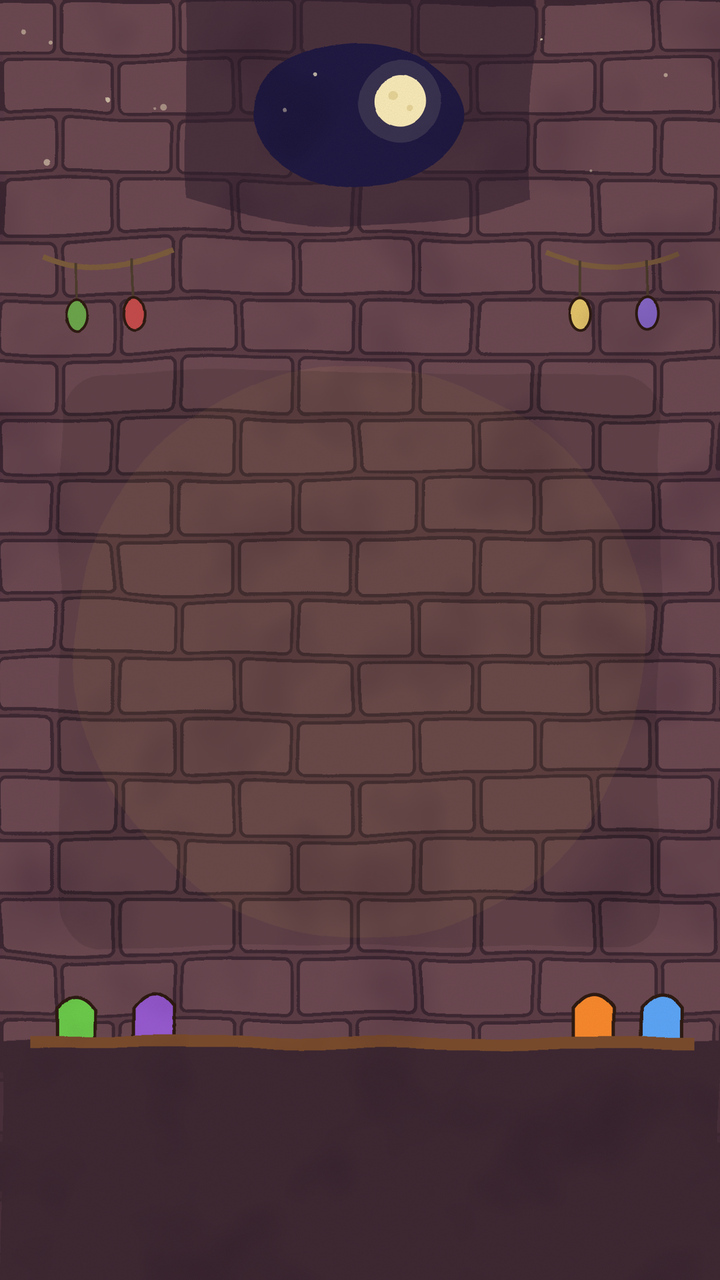
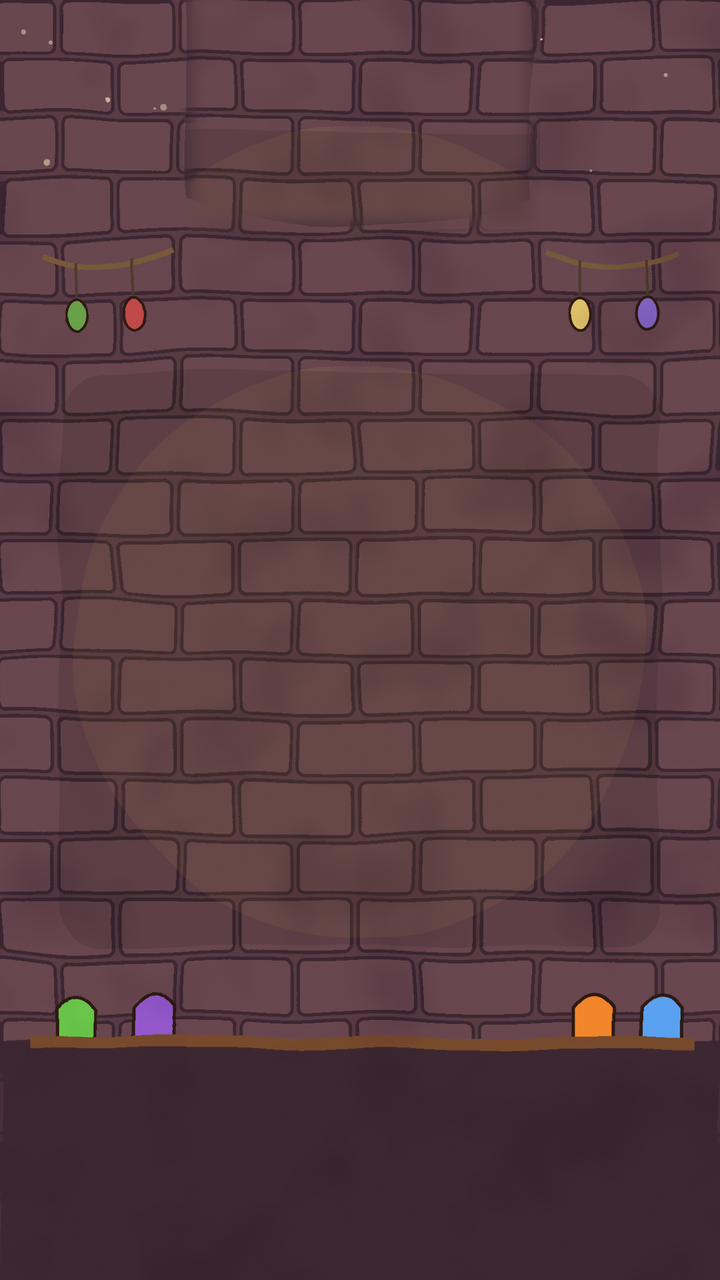
Staging: Halloween batch B/C QA fixes

Changed region(s): [[0.275, 0.0, 0.7333, 0.1875]]

diff --git a/staging/cauldron-stir/game.js b/staging/cauldron-stir/game.js
@@ -3,7 +3,7 @@
 var CS_X = 180, CS_Y = 350, CS_BEAT = 60 / 96;
 function csPack() { var A = window.AudioKit; return A && A.games && A.games['cauldron-stir']; }
 // seconds from the nearest beat (negative = early) and that beat's index; audio clock when music runs, else the game clock
-function csClock(g) { var P = csPack(); try { if (P && P.beatOffset) { var k = P.currentBeat(), off = P.beatOffset(); if (k && off != null && isFinite(off)) return { off: off, beat: Math.round((k.now - k.t0) / k.beatDur), phase: k.phase }; } } catch (e) {}
+function csClock(g) { var P = csPack(); try { if (P && P.beatOffset && g.state === 'play' && g.music && g.music.playing) { /* never touch the audio clock before a gesture starts the music */ var k = P.currentBeat(), off = P.beatOffset(); if (k && off != null && isFinite(off)) return { off: off, beat: Math.round((k.now - k.t0) / k.beatDur), phase: k.phase }; } } catch (e) {}
   var r = g.t / CS_BEAT, nb = Math.round(r); return { off: (r - nb) * CS_BEAT, beat: nb, phase: r - Math.floor(r) }; }
 function csStir(g) { var D = g.data, k = csClock(g), a = Math.abs(k.off), tol = Math.max(0.07, 0.13 - g.level * 0.006);
   if (k.beat === D.lastBeat) { a = 1; } // a second stir on the same beat is a miss
@@ -15,7 +15,7 @@ function csStir(g) { var D = g.data, k = csClock(g), a = Math.abs(k.off), tol = 
   if (D.good >= 8) { D.good = 0; D.drops.push({ k: Math.floor(hwRand() * 5), y: 120, t: 0 }); }
   if (D.meter <= 0) { D.meter = 0; g.gameOver('the brew went cold'); } }
 EagleGame.run({ id: 'cauldron-stir', title: HW_NAMES['cauldron-stir'], howto: 'Drag your finger round the cauldron in circles, in time with the beat: every half turn is one stir (a tap counts too). Stir right on the beat when the ring flashes to keep the brew bubbling. Off-beat stirs and skipped beats cool the brew; if the meter empties, the brew is ruined. Every 8 good stirs adds a new ingredient. Keys: Space / Enter to stir on the beat.',
-  art: ['cauldron_topdown_sheet', 'beat_ring_sheet', 'spoon_stir_sheet', 'ingredients_sheet', 'splash_sheet'], levelEvery: 40, likeScore: 60,
+  art: ['cauldron_topdown_sheet', 'beat_ring_sheet', 'spoon_stir_sheet', 'ingredients_sheet', 'splash_sheet'], levelEvery: 40, likeScore: 60, fill: { top: '#543841', bottom: { tile: 'band_bottom', size: 180, originY: 640, color: '#3b2630' } },
   achievements: [{ id: 'c30', score: 30, name: 'Apprentice Brewer' }, { id: 'c150', score: 150, name: 'Master of the Brew' }],
   audioReady: function (g) { var P = csPack(); if (P && P.bindPlayer && g.music) P.bindPlayer(g.music); },
   init: function (g) { hwSeed(); g.data = { meter: 0.6, combo: 0, good: 0, lastBeat: -99, spoon: 0, ang: null, acc: 0, q: '', qt: 0, ring: 0, wob: 0, drops: [], splash: [], idleBeats: 0, seenBeat: -1 }; },
@@ -27,7 +27,7 @@ EagleGame.run({ id: 'cauldron-stir', title: HW_NAMES['cauldron-stir'], howto: 'D
     if (D.qt > 0) D.qt -= dt; if (D.ring > 0) D.ring -= dt; if (D.wob > 0) D.wob -= dt;
     D.drops.forEach(function (d) { d.t += dt; d.y += dt * 420; if (d.y >= CS_Y && !d.done) { d.done = 1; D.splash.push({ t: 0 }); g.sfx('brewDone', null, 'powerUp'); g.sfx('splash'); g.addScore(5); } });
     D.drops = D.drops.filter(function (d) { return !d.done; }); D.splash.forEach(function (s) { s.t += dt; }); D.splash = D.splash.filter(function (s) { return s.t < 0.5; });
-    if (hwRand() < dt * 1.5) g.sfx('bubble', hwRand()); },
+    if (g.music && g.music.playing && (!navigator.userActivation || navigator.userActivation.hasBeenActive) && Math.random() < dt * 1.5) g.sfx('bubble', Math.random()); },
   draw: function (g, c) { var D = g.data, th = g.theme, k = csClock(g); if (!g.bg()) hwSky(c, '#150f2c', '#2b1a40');
     var near = Math.abs(k.off) < 0.09, pulse = Math.max(0, 1 - Math.abs(k.off) / 0.25);
     if (!hwFrame(g, 'beat_ring_sheet', near ? 5 : Math.min(4, pulse * 5), 6, 1, CS_X, CS_Y, 270 + pulse * 20, 270 + pulse * 20)) { c.strokeStyle = near ? '#fff3b0' : 'rgba(255,255,255,.3)'; c.lineWidth = 4 + pulse * 6; c.beginPath(); c.arc(CS_X, CS_Y, 128 + pulse * 10, 0, 7); c.stroke(); }
@@ -37,13 +37,13 @@ EagleGame.run({ id: 'cauldron-stir', title: HW_NAMES['cauldron-stir'], howto: 'D
     if (!hwFrame(g, 'spoon_stir_sheet', D.spoon % 8, 8, 1, sx, sy, 90, 90)) { c.strokeStyle = '#c89a5a'; c.lineWidth = 8; c.beginPath(); c.moveTo(sx, sy); c.lineTo(sx + 20, sy - 50); c.stroke(); }
     D.drops.forEach(function (d) { if (!hwFrame(g, 'ingredients_sheet', d.k, 5, 1, CS_X, d.y, 50, 50)) { c.fillStyle = '#ff5fa2'; c.beginPath(); c.arc(CS_X, d.y, 14, 0, 7); c.fill(); } });
     D.splash.forEach(function (s) { hwFrame(g, 'splash_sheet', s.t / 0.5 * 4.99, 5, 1, CS_X, CS_Y - 20, 140, 140); });
-    c.fillStyle = 'rgba(255,255,255,.15)'; c.fillRect(40, 140, 280, 10); c.fillStyle = D.meter < 0.25 ? th.bad : '#7cf0a0'; c.fillRect(40, 140, 280 * D.meter, 10);
-    c.textAlign = 'center'; c.fillStyle = th.dim; c.font = '12px system-ui'; c.fillText('brew heat', 180, 166);
-    if (D.qt > 0) { c.globalAlpha = Math.min(1, D.qt * 2); c.fillStyle = D.q === 'Off beat' ? th.bad : th.accent; c.font = 'bold 24px system-ui'; c.fillText(D.q, 180, 200); c.globalAlpha = 1; }
-    c.fillStyle = th.dim; c.font = '13px system-ui'; c.fillText('stir in circles on the beat' + (D.combo > 1 ? ' · combo ' + D.combo : '') + ' · level ' + g.level, 180, g.safeY(560)); }
+    var HB = 184; c.fillStyle = 'rgba(0,0,0,.35)'; c.fillRect(56, HB - 2, 248, 12); c.fillStyle = 'rgba(255,255,255,.18)'; c.fillRect(58, HB, 244, 8); c.fillStyle = D.meter < 0.25 ? th.bad : '#7cf0a0'; c.fillRect(58, HB, 244 * D.meter, 8);
+    c.textAlign = 'center'; c.fillStyle = th.dim; c.font = '12px system-ui'; c.fillText('brew heat', 180, HB + 24);
+    if (D.qt > 0) { c.globalAlpha = Math.min(1, D.qt * 2); c.fillStyle = D.q === 'Off beat' ? th.bad : th.accent; c.font = 'bold 24px system-ui'; c.fillText(D.q, 180, 230); c.globalAlpha = 1; }
+    c.fillStyle = th.dim; c.font = '13px system-ui'; c.fillText('stir in circles on the beat' + (D.combo > 1 ? ' · combo ' + D.combo : '') + ' · level ' + g.level, 180, g.safeY(CS_Y + 138)); }
 });
 // drag tracking: every half turn round the cauldron while the finger is down counts as one stir
 document.addEventListener('pointermove', function (e) { var g = window.__eagle; if (!g || !hwLive() || !g.held || g.data.ang == null) return; var v = g.view.css; if (!v.w) return;
   var x = (e.clientX - v.x) / v.w * 360, y = (e.clientY - v.y) / v.h * 640, D = g.data, a = Math.atan2(y - CS_Y, x - CS_X), d = a - D.ang;
   if (Math.hypot(x - CS_X, y - CS_Y) < 20) return; if (d > Math.PI) d -= 2 * Math.PI; if (d < -Math.PI) d += 2 * Math.PI; D.ang = a; D.acc += Math.abs(d);
-  if (Math.abs(D.acc) > 0.3) D.tapped = false; if (D.acc >= Math.PI) { D.acc -= Math.PI; csStir(g); } });
+  if (Math.abs(D.acc) > 0.3) D.tapped = false; if (D.acc >= Math.PI * 0.85) { D.acc -= Math.PI * 0.85; csStir(g); } });

diff --git a/staging/moonlit-mazelings/game.js b/staging/moonlit-mazelings/game.js
@@ -13,15 +13,15 @@ function mzBuild(g) { var D = g.data, n = D.maze, C = Math.min(8, 5 + Math.floor
   D.gate = { x: far[0], y: far[1] }; D.lead = { x: 0, y: R - 1, fx: 0, fy: R - 1, d: -1, q: -1, prog: 0 }; D.trail = []; for (k = 0; k < 40; k++) D.trail.push([0, R - 1]);
   D.pets = Math.min(6, 2 + Math.floor(n / 2)); D.coins = []; var nc = 3 + Math.min(5, n);
   for (k = 0; k < 60 && D.coins.length < nc; k++) { x = Math.floor(hwRand() * C); y = Math.floor(hwRand() * R); if ((x || y !== R - 1) && !(x === far[0] && y === far[1]) && !D.coins.some(function (c) { return c.x === x && c.y === y; })) D.coins.push({ x: x, y: y }); }
-  D.lan = []; var nl = Math.min(4, 1 + Math.floor(n / 2)); for (k = 0; k < 80 && D.lan.length < nl; k++) { x = Math.floor(hwRand() * C); y = Math.floor(hwRand() * R); if (dist[x][y] >= 5) D.lan.push({ x: x, y: y, fx: x, fy: y, d: -1, prog: 1 }); }
-  D.safe = 1.2; D.done = 0; }
+  D.lan = []; var nl = Math.min(4, Math.floor((n + 1) / 2)); for (k = 0; k < 80 && D.lan.length < nl; k++) { x = Math.floor(hwRand() * C); y = Math.floor(hwRand() * R); if (dist[x][y] >= 5) D.lan.push({ x: x, y: y, fx: x, fy: y, d: -1, prog: 1 }); }
+  D.safe = 2; D.done = 0; }
 function mzDist(D, sx, sy) { var dist = [], x, y; for (x = 0; x < D.C; x++) { dist[x] = []; for (y = 0; y < D.R; y++) dist[x][y] = 1e9; } dist[sx][sy] = 0; var q = [[sx, sy]];
   while (q.length) { var p = q.shift(); for (var d = 0; d < 4; d++) { if (D.W[p[0]][p[1]] & MZ_DIRS[d][2]) continue; var nx = p[0] + MZ_DIRS[d][0], ny = p[1] + MZ_DIRS[d][1]; if (dist[nx][ny] > dist[p[0]][p[1]] + 1) { dist[nx][ny] = dist[p[0]][p[1]] + 1; q.push([nx, ny]); } } } return dist; }
 function mzOpen(D, x, y, d) { return d >= 0 && !(D.W[x][y] & MZ_DIRS[d][2]); }
 function mzSteer(g, d) { var D = g.data; if (!D.lead || D.done) return; D.lead.q = d; if (D.lead.d < 0 || D.lead.d === MZ_OPP[d]) { if (D.lead.d === MZ_OPP[d] && D.lead.prog < 1) { var L = D.lead; L.x = L.fx; L.y = L.fy; L.prog = 1 - L.prog; } } }
 function mzCell(D, x, y) { return [D.ox + (x + 0.5) * D.S, D.oy + (y + 0.5) * D.S]; }
 EagleGame.run({ id: 'moonlit-mazelings', title: HW_NAMES['moonlit-mazelings'], howto: 'Swipe up, down, left or right to lead your line of ghost pets through the maze; the leader keeps gliding until a wall or your next swipe. Reach the moon gate to clear the maze, grab moon coins for points and keep away from the wandering lanterns. A lantern touching your leader costs a life; 3 lives. Keys: arrow keys.',
-  art: ['maze_floor_128', 'maze_wall_128', 'mazeling_walk_down_sheet', 'mazeling_walk_left_sheet', 'mazeling_walk_right_sheet', 'mazeling_walk_up_sheet', 'moon_coin_sheet', 'moon_gate_sheet', 'lantern'], levelEvery: 40, likeScore: 50,
+  art: ['maze_floor_128', 'maze_wall_128', 'mazeling_walk_down_sheet', 'mazeling_walk_left_sheet', 'mazeling_walk_right_sheet', 'mazeling_walk_up_sheet', 'moon_coin_sheet', 'moon_gate_sheet', 'lantern'], levelEvery: 40, likeScore: 50, fill: { top: '#161131', bottom: { tile: 'band_bottom', size: 180, originY: 640, color: '#1f183f' } },
   achievements: [{ id: 'm3', score: 30, name: 'Moonlit Guide' }, { id: 'm150', score: 150, name: 'Maze Shepherd' }],
   init: function (g) { hwSeed(); g.data = { maze: 0, lives: 3, flash: 0, msg: null, swipe: null }; mzBuild(g); },
   down: function (g) { var D = g.data; if (g.tapX === undefined) return; D.swipe = { x: g.tapX, y: g.tapY, used: false }; },
@@ -37,7 +37,7 @@ EagleGame.run({ id: 'moonlit-mazelings', title: HW_NAMES['moonlit-mazelings'], h
     var cx = L.fx + (L.x - L.fx) * L.prog, cy = L.fy + (L.y - L.fy) * L.prog, rx = Math.round(cx), ry = Math.round(cy);
     D.coins = D.coins.filter(function (c) { if (c.x === rx && c.y === ry) { g.addScore(2); g.sfx('moonbeam', null, 'coin'); return false; } return true; });
     if (rx === D.gate.x && ry === D.gate.y) { D.done = 1; g.addScore(10 + D.pets * 2); g.sfx('mazelingFound', null, 'win'); D.msg = { text: 'Through the moon gate! +' + (10 + D.pets * 2), t: 1 }; return; }
-    var ls = Math.min(3, 1 + D.maze * 0.12);
+    var ls = Math.min(2.6, 0.7 + D.maze * 0.1);
     D.lan.forEach(function (o) { if (o.prog >= 1) { o.fx = o.x; o.fy = o.y; var opts = []; for (var d = 0; d < 4; d++) if (mzOpen(D, o.x, o.y, d) && d !== MZ_OPP[o.d]) opts.push(d);
         if (!opts.length) for (d = 0; d < 4; d++) if (mzOpen(D, o.x, o.y, d)) opts.push(d); o.d = hwPick(opts); o.x += MZ_DIRS[o.d][0]; o.y += MZ_DIRS[o.d][1]; o.prog = 0; }
       o.prog = Math.min(1, o.prog + dt * ls); o.cx = o.fx + (o.x - o.fx) * o.prog; o.cy = o.fy + (o.y - o.fy) * o.prog;

diff --git a/staging/gloomlinks/game.js b/staging/gloomlinks/game.js
@@ -1,6 +1,6 @@
 // Gloomlinks: top-down one-shot mini golf in a moonlit graveyard. Drag back from anywhere and let go to putt.
 // Endless procedural holes dotted with tombstones; one shared stroke budget, topped up each time you sink a ball.
-var GL_L = 24, GL_R = 336, GL_T = 186, GL_DEC = 230, GL_MAXV = 720, GL_BR = 8, GL_HR = 13, GL_TR = 21;
+var GL_L = 24, GL_R = 336, GL_T = 186, GL_DEC = 230, GL_MAXV = 720, GL_BR = 11, GL_HR = 16, GL_TR = 21;
 function glBot(g) { return Math.min(560, g.safeBottom - 24); }
 function glHole(g) { var D = g.data, B = glBot(g), n = Math.min(7, 2 + Math.floor(D.holeNo / 2)), tries = 0;
   D.ball = { x: 100 + hwRand() * 160, y: B - 40, vx: 0, vy: 0, f: 0 }; D.hole = { x: 60 + hwRand() * 240, y: GL_T + 30 + hwRand() * 70 }; D.stones = [];
@@ -10,7 +10,7 @@ function glHole(g) { var D = g.data, B = glBot(g), n = Math.min(7, 2 + Math.floo
 function glShoot(g, dx, dy) { var D = g.data, b = D.ball; if (D.sunk || Math.hypot(b.vx, b.vy) > 0 || D.strokes <= 0) return; var len = Math.hypot(dx, dy); if (len < 12) return;
   var v = Math.min(GL_MAXV, len * 4.2); b.vx = dx / len * v; b.vy = dy / len * v; D.strokes--; D.taken++; g.sfx('link', v / GL_MAXV, 'hit'); D.swing = 0.25; }
 EagleGame.run({ id: 'gloomlinks', title: HW_NAMES['gloomlinks'], howto: 'Drag back from anywhere on the screen and let go to putt the ball; the further you pull, the harder the shot. Bounce off tombstones and walls to reach the flag. You share one stroke budget across endless holes: sinking a ball tops it up, more for beating par. Run out of strokes and the round ends. Keys: Left / Right arrows aim, hold Space / Enter to charge and release to putt.',
-  art: ['golf_ball_roll_sheet', 'golf_club', 'hole_flag_sheet', 'putting_green_tile_256', 'tombstone_sheet'], levelEvery: 60, likeScore: 60,
+  art: ['golf_ball_roll_sheet', 'golf_club', 'hole_flag_sheet', 'putting_green_tile_256', 'tombstone_sheet'], levelEvery: 60, likeScore: 60, fill: { top: '#1b1b3c', bottom: { tile: 'band_bottom', size: 180, originY: 640, color: '#2c4639' } },
   achievements: [{ id: 'g50', score: 50, name: 'Tombstone Putter' }, { id: 'g200', score: 200, name: 'Gloom Champion' }],
   init: function (g) { hwSeed(); g.data = { holeNo: 0, strokes: 6, drag: null, msg: null, charge: 0, kb: false, swing: 0 }; glHole(g); },
   down: function (g) { var D = g.data; if (g.tapX === undefined) { D.kb = true; D.charge = 0.001; return; } D.kb = false; D.drag = { x0: g.tapX, y0: g.tapY, x: g.tapX, y: g.tapY }; },
@@ -46,7 +46,7 @@ EagleGame.run({ id: 'gloomlinks', title: HW_NAMES['gloomlinks'], howto: 'Drag ba
     if (ready && (D.drag || D.charge > 0 || D.kb)) { var dx, dy; if (D.drag) { dx = D.drag.x0 - D.drag.x; dy = D.drag.y0 - D.drag.y; } else { var p = D.charge || 0.25; dx = Math.cos(D.aim) * p * 170; dy = Math.sin(D.aim) * p * 170; }
       var len = Math.hypot(dx, dy); if (len > 4) { var pw = Math.min(1, len * 4.2 / GL_MAXV); c.strokeStyle = pw > 0.85 ? th.bad : '#fff3b0'; c.lineWidth = 3; c.setLineDash([5, 6]); c.beginPath(); c.moveTo(b.x, b.y); c.lineTo(b.x + dx / len * (30 + pw * 110), b.y + dy / len * (30 + pw * 110)); c.stroke(); c.setLineDash([]);
         if (g.art.golf_club) g.sprite('golf_club', b.x - dx / len * 22, b.y - dy / len * 22, 46, 46, null, Math.atan2(dy, dx) + Math.PI / 2); } }
-    if (D.sunk) { c.globalAlpha = Math.max(0, D.sunk - 0.6) * 2; } if (!hwFrame(g, 'golf_ball_roll_sheet', b.f % 4, 4, 1, b.x, b.y, 20, 20)) { c.fillStyle = '#fff'; c.beginPath(); c.arc(b.x, b.y, GL_BR, 0, 7); c.fill(); } c.globalAlpha = 1;
+    if (D.sunk) { c.globalAlpha = Math.max(0, D.sunk - 0.6) * 2; } if (!hwFrame(g, 'golf_ball_roll_sheet', b.f % 4, 4, 1, b.x, b.y, 36, 36)) { c.fillStyle = '#fff'; c.beginPath(); c.arc(b.x, b.y, GL_BR, 0, 7); c.fill(); } c.globalAlpha = 1;
     c.textAlign = 'center'; c.font = 'bold 15px system-ui'; c.fillStyle = D.strokes <= 2 ? th.bad : '#fff3b0'; c.fillText('Hole ' + (D.holeNo + 1) + ' · par ' + D.par + ' · strokes left ' + D.strokes, 180, 170);
     if (D.msg) { c.globalAlpha = Math.min(1, D.msg.t * 2); c.fillStyle = th.accent; c.font = 'bold 22px system-ui'; c.fillText(D.msg.text, 180, 300); c.globalAlpha = 1; }
     c.fillStyle = th.dim; c.font = '12px system-ui'; c.fillText('drag back and let go to putt', 180, g.safeY(B + 18)); }

diff --git a/staging/eggshade-nursery/game.js b/staging/eggshade-nursery/game.js
@@ -7,14 +7,14 @@ function enSpawn(g) { var D = g.data, a = hwRand() * Math.PI * 2, R = 260, k = M
   D.crit.push({ k: k, x: x, y: y, t: hwRand(), run: 0 }); }
 function enShoo(g, cr) { cr.run = 1; var D = g.data; D.combo++; g.addScore(1 + (D.combo >= 8 ? 1 : 0)); g.sfx('chirp', null, 'coin'); D.puffs.push({ x: cr.x, y: cr.y, t: 0.35 }); }
 EagleGame.run({ id: 'eggshade-nursery', title: HW_NAMES['eggshade-nursery'], howto: 'Beetles, mice and spiders creep toward your nest of 5 eggs. Tap a critter to shoo it away before it reaches the nest. Each critter that gets there carries off an egg; lose all 5 and the night is over. Every 20 points a lost egg comes back. Keys: Space / Enter shoos the closest critter.',
-  art: ['eggs_sheet', 'egg_cracked', 'critter_beetle_walk_sheet', 'critter_mouse_walk_sheet', 'critter_spider_walk_sheet', 'hatchlings_sheet'], levelEvery: 20, likeScore: 40,
+  art: ['eggs_sheet', 'egg_cracked', 'critter_beetle_walk_sheet', 'critter_mouse_walk_sheet', 'critter_spider_walk_sheet', 'hatchlings_sheet'], levelEvery: 20, likeScore: 40, fill: { top: '#533b5e', bottom: { tile: 'band_bottom', size: 180, originY: 640, color: '#765848' } },
   achievements: [{ id: 'e25', score: 25, name: 'Night Nanny' }, { id: 'e100', score: 100, name: 'Nest Guardian' }],
-  init: function (g) { hwSeed(); g.data = { eggs: [1, 1, 1, 1, 1], crit: [], puffs: [], spawn: 1.2, combo: 0, lost: [], msg: null, nextBack: 20 }; },
+  init: function (g) { hwSeed(); g.data = { eggs: [1, 1, 1, 1, 1], crit: [], puffs: [], spawn: 1.8, combo: 0, lost: [], msg: null, nextBack: 20 }; },
   down: function (g) { var D = g.data, best = null, bd = 1e9;
     D.crit.forEach(function (cr) { if (cr.run) return; var d = g.tapX === undefined ? Math.hypot(cr.x - EN_NX, cr.y - EN_NY) : Math.hypot(cr.x - g.tapX, cr.y - g.tapY); if (d < bd) { bd = d; best = cr; } });
-    if (best && (g.tapX === undefined || bd < 46)) enShoo(g, best); else { D.combo = 0; g.sfx('eggChill', null, 'hit'); } },
-  update: function (g, dt) { var D = g.data, sp = Math.min(95, 34 + g.level * 5 + g.t * 0.25);
-    D.spawn -= dt; if (D.spawn <= 0) { enSpawn(g); D.spawn = Math.max(0.42, 1.6 - g.level * 0.1 - g.t * 0.004) * (0.7 + hwRand() * 0.6); }
+    if (best && (g.tapX === undefined || bd < 52)) enShoo(g, best); else { D.combo = 0; g.sfx('eggChill', null, 'hit'); } },
+  update: function (g, dt) { var D = g.data, sp = Math.min(95, 24 + g.level * 5 + g.t * 0.2);
+    D.spawn -= dt; if (D.spawn <= 0) { enSpawn(g); D.spawn = Math.max(0.42, 2.1 - g.level * 0.12 - g.t * 0.004) * (0.7 + hwRand() * 0.6); }
     D.crit.forEach(function (cr) { cr.t += dt; var dx = EN_NX - cr.x, dy = EN_NY - cr.y, d = Math.hypot(dx, dy) || 1;
       if (cr.run) { cr.x -= dx / d * 260 * dt; cr.y -= dy / d * 260 * dt; cr.flip = dx > 0; return; }
       cr.x += dx / d * sp * EN_SPD[cr.k] * dt + Math.sin(cr.t * 5) * 12 * dt; cr.y += dy / d * sp * EN_SPD[cr.k] * dt; cr.flip = dx < 0;

diff --git a/staging/batwing-bridges/game.js b/staging/batwing-bridges/game.js
@@ -4,7 +4,7 @@ var BW_TOP = 420, BW_HERO = 70; // pillar top (logical y) and on-screen x of the
 function bwPillar(g, x) { var lv = g.level, w = Math.max(22, 74 - lv * 4 - hwRand() * 26), gap = 40 + hwRand() * Math.min(190, 90 + lv * 12); return { x: x + gap, w: w }; }
 function bwUp(g) { var D = g.data; if (D.st === 'grow') { D.st = 'tip'; D.ang = 0; g.sfx('batSwoop', null, 'hit'); } }
 EagleGame.run({ id: 'batwing-bridges', title: HW_NAMES['batwing-bridges'], howto: 'Hold to stretch a bat-wing plank upward, then let go to drop it across the gap. If the plank tip lands on the next pillar the batfox crosses; too short or too long and it tumbles into the dark. Hit the glowing centre for a perfect bonus. Keys: hold Space / Enter.',
-  art: ['bat_plank_tile_128x96', 'batfox_runner_sheet', 'pillar_top', 'gap_pit_tile_128'], levelEvery: 8, likeScore: 15,
+  art: ['bat_plank_tile_128x96', 'batfox_runner_sheet', 'pillar_top', 'gap_pit_tile_128'], levelEvery: 8, likeScore: 15, fill: { top: '#3b2c68', bottom: { tile: 'band_bottom', size: 180, originY: 640, color: '#231b3a' } },
   achievements: [{ id: 'b10', score: 10, name: 'Plank Rookie' }, { id: 'b40', score: 40, name: 'Batwing Architect' }],
   init: function (g) { hwSeed(); var p0 = { x: BW_HERO - 70, w: 70 }; g.data = { P: [p0, bwPillar(g, BW_HERO)], i: 0, cam: 0, len: 0, ang: 0, st: 'idle', hx: BW_HERO - 14, hy: BW_TOP, vy: 0, msg: null, creak: 0, perfects: 0 }; },
   down: function (g) { var D = g.data; if (D.st === 'idle') { D.st = 'grow'; D.len = 0; } },

diff --git a/staging/spellsock-sorting/game.js b/staging/spellsock-sorting/game.js
@@ -13,7 +13,7 @@ function ssSend(g, side) { var D = g.data, s = D.sock; if (!s || s.fly) return; 
     D.glow[side] = 0.35; }
   else { D.combo = 0; s.bad = true; g.sfx('sockWrong', null, 'hit'); g.shake && g.shake(4); egLoseLife(g, 'a ' + SS_NAMES[s.k] + ' sock went in the wrong basket', true); } }
 EagleGame.run({ id: 'spellsock-sorting', title: HW_NAMES['spellsock-sorting'], howto: 'A spell sock drops from the top. Tap the left or right side to send it into the basket that takes its colour (the coloured dots under each basket). Wrong basket or a dropped sock costs a life; 3 lives. New colours join and socks fall faster as you level up. Keys: Left / Right arrows.',
-  art: ['socks_sheet', 'baskets_sheet'], levelEvery: 15, likeScore: 40,
+  art: ['socks_sheet', 'baskets_sheet'], levelEvery: 15, likeScore: 40, fill: { top: '#3a253e', bottom: { tile: 'band_bottom', size: 180, originY: 640, color: '#664839' } },
   achievements: [{ id: 's25', score: 25, name: 'Sock Sorter' }, { id: 's100', score: 100, name: 'Laundry Wizard' }],
   init: function (g) { hwSeed(); g.data = { lives: 3, flash: 0, combo: 0, glow: [0, 0], msg: null, lastLevel: 1, lastK: -1 }; ssSpawn(g); },
   down: function (g) { if (g.tapX === undefined) return; ssSend(g, g.tapX < 180 ? 0 : 1); },
